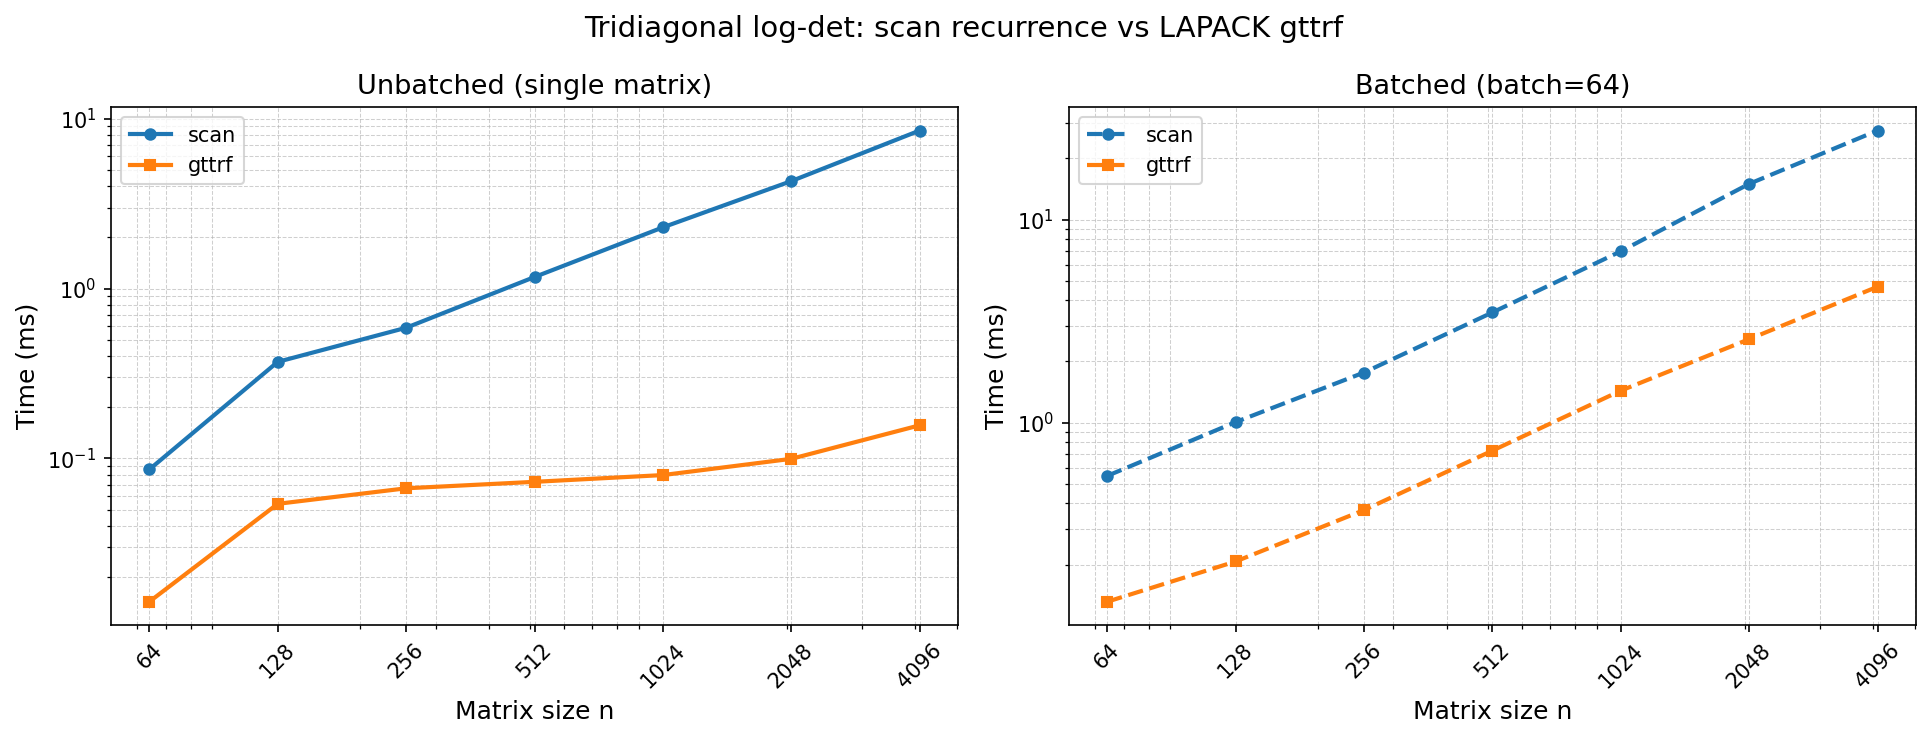
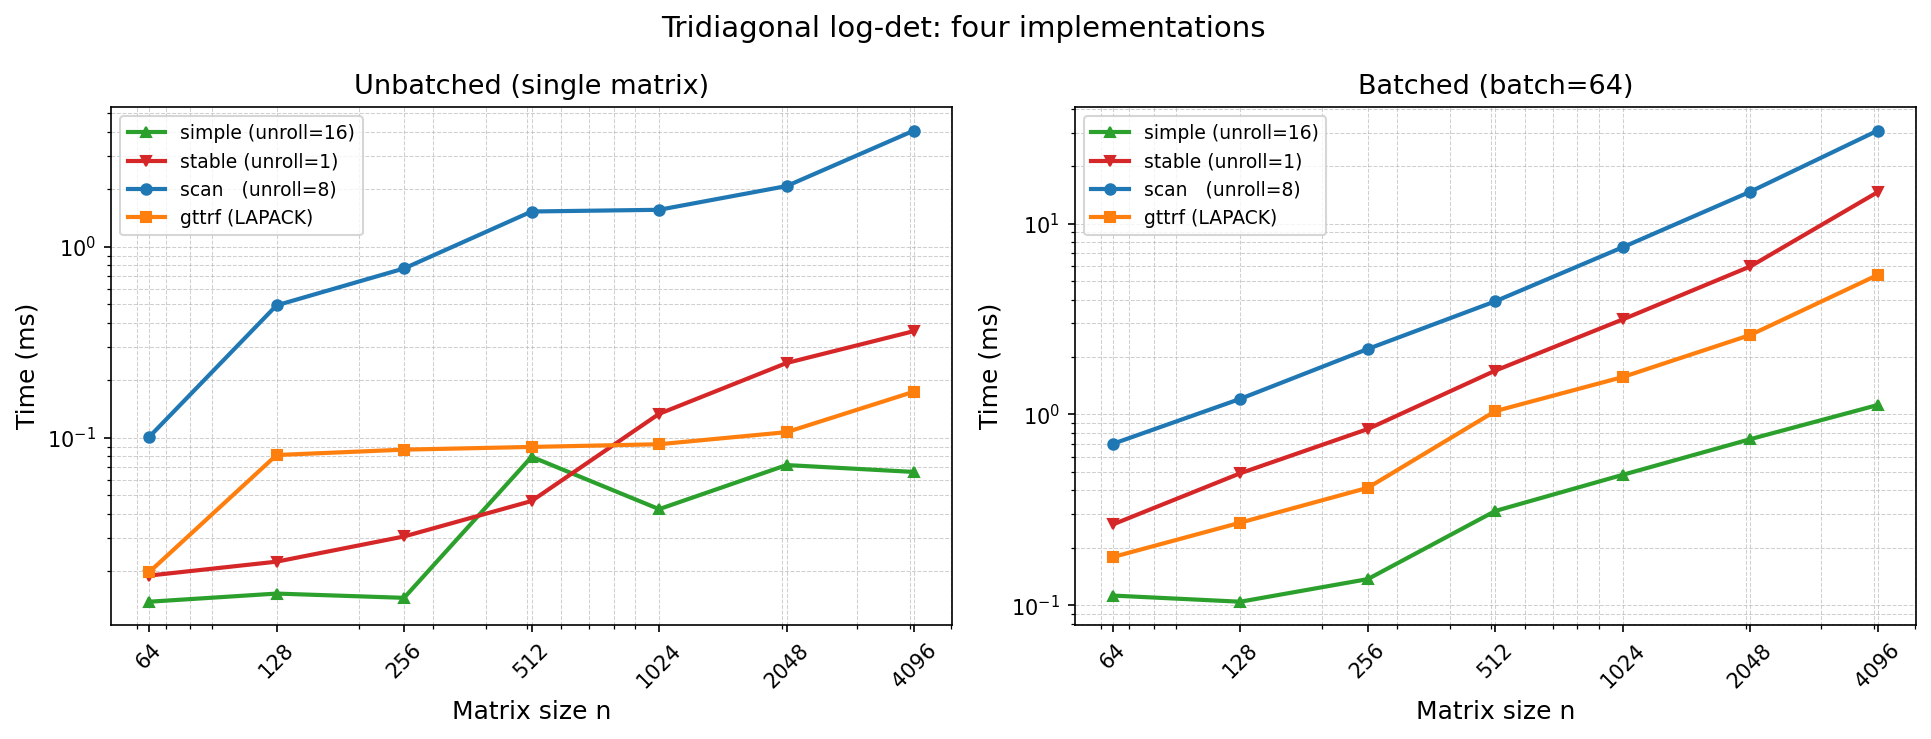
bench_tridiag_det: add simple and stable scan variants
Extends the benchmark to four implementations:
  simple  — raw recurrence, unroll=16 (overflows at large n)
  stable  — signed log-space, unroll=1
  scan    — signed log-space, unroll=8, indexes via jnp.arange
  gttrf   — LAPACK tridiagonal LU (previous)

Claude-Session: https://claude.ai/code/session_01EB2KuwfQX9eduESZ9tbdDc

diff --git a/benchmarks/bench_tridiag_det.py b/benchmarks/bench_tridiag_det.py
@@ -1,21 +1,16 @@
 """
-Benchmark: tridiagonal determinant — scan-based recurrence vs LAPACK gttrf
-===========================================================================
+Benchmark: tridiagonal log-det — four implementations
+======================================================
 
-Compares two approaches to computing log|det(A)| for a random tridiagonal
-matrix A of size n×n:
+  simple : raw three-term recurrence, unroll=16  (overflows for large n)
+  stable : signed log-space recurrence, unroll=1
+  scan   : signed log-space recurrence, unroll=8, indexes via jnp.arange
+  gttrf  : LAPACK gttrf tridiagonal LU → prod(U diagonal) + pivot sign
 
-  scan   : three-term recurrence via lax.scan (unroll=8), O(n) sequential
-  gttrf  : LAPACK gttrf tridiagonal LU, then prod(U diagonal) + pivot sign
+Both unbatched (single matrix) and batched (vmap, batch=64) are timed
+across n = 64 … 4096.
 
-Both unbatched (single matrix) and batched (vmap over a batch of matrices)
-are benchmarked across n = 64, 128, 256, 512, 1024, 2048, 4096.
-
-Results are written to  benchmarks/results/bench_tridiag_det.csv
-Plot is  written to     benchmarks/results/bench_tridiag_det.png
-
-Usage:
-    uv run --locked python benchmarks/bench_tridiag_det.py
+Results → benchmarks/results/bench_tridiag_det.csv / .png
 """
 
 import csv
@@ -37,46 +32,79 @@ RESULTS_DIR = pathlib.Path(__file__).parent / "results"
 RESULTS_DIR.mkdir(exist_ok=True)
 
 # ---------------------------------------------------------------------------
-# Scan-based reference (from the docstring / original implementation)
+# Implementations
 # ---------------------------------------------------------------------------
+
+@jax.jit
+def tridiag_logdet_simple(
+    a: jnp.ndarray, b: jnp.ndarray, c: jnp.ndarray
+) -> tuple[jnp.ndarray, jnp.ndarray]:
+    """O(n) log-det via raw recurrence. Overflows for n > ~1500 at typical scales."""
+    coupling = jnp.concatenate([jnp.array([0.0]), a * c])
+
+    def step(carry, xs):
+        f_prev2, f_prev1 = carry
+        b_i, coupling_i = xs
+        return (f_prev1, b_i * f_prev1 - coupling_i * f_prev2), None
+
+    (_, f_n), _ = lax.scan(step, (1.0, b[0]), (b[1:], coupling[1:]), unroll=16)
+    return jnp.sign(f_n), jnp.log(jnp.abs(f_n))
+
+
+@jax.jit
+def tridiag_logdet_stable(
+    a: jnp.ndarray, b: jnp.ndarray, c: jnp.ndarray
+) -> tuple[jnp.ndarray, jnp.ndarray]:
+    """O(n) log-det via signed log-space recurrence. Overflow-safe for any n."""
+    coupling = jnp.concatenate([jnp.array([0.0]), a * c])
+
+    def step(carry, xs):
+        log_f2, sgn_f2, log_f1, sgn_f1 = carry
+        b_i, coupling_i = xs
+        log_t1  = jnp.log(jnp.abs(b_i))        + log_f1
+        sgn_t1  = jnp.sign(b_i)               * sgn_f1
+        log_t2  = jnp.log(jnp.abs(coupling_i)) + log_f2
+        sgn_t2  = jnp.sign(coupling_i)         * sgn_f2
+        log_max = jnp.maximum(log_t1, log_t2)
+        val     = sgn_t1 * jnp.exp(log_t1 - log_max) - sgn_t2 * jnp.exp(log_t2 - log_max)
+        return (log_f1, sgn_f1, log_max + jnp.log(jnp.abs(val)), jnp.sign(val)), None
+
+    init = (0.0, 1.0, jnp.log(jnp.abs(b[0])), jnp.sign(b[0]))
+    (_, _, log_det, sgn_det), _ = lax.scan(step, init, (b[1:], coupling[1:]), unroll=1)
+    return sgn_det, log_det
+
 
 @jax.jit
 def tridiag_logdet_scan(
     a: jnp.ndarray, b: jnp.ndarray, c: jnp.ndarray
 ) -> tuple[jnp.ndarray, jnp.ndarray]:
-    """Numerically stable log-det via signed log-space three-term recurrence."""
+    """Signed log-space recurrence, unroll=8, indexes into b/coupling at runtime."""
     coupling = jnp.concatenate([jnp.array([0.0]), a * c])
 
     def step(carry, i):
         log_f2, sgn_f2, log_f1, sgn_f1 = carry
-
-        log_t1 = jnp.log(jnp.abs(b[i])) + log_f1
-        sgn_t1 = jnp.sign(b[i]) * sgn_f1
-
-        log_t2 = jnp.log(jnp.abs(coupling[i])) + log_f2
-        sgn_t2 = jnp.sign(coupling[i]) * sgn_f2
-
+        log_t1  = jnp.log(jnp.abs(b[i]))        + log_f1
+        sgn_t1  = jnp.sign(b[i])               * sgn_f1
+        log_t2  = jnp.log(jnp.abs(coupling[i])) + log_f2
+        sgn_t2  = jnp.sign(coupling[i])         * sgn_f2
         log_max = jnp.maximum(log_t1, log_t2)
-        val = sgn_t1 * jnp.exp(log_t1 - log_max) - sgn_t2 * jnp.exp(log_t2 - log_max)
-        log_f = log_max + jnp.log(jnp.abs(val))
-        sgn_f = jnp.sign(val)
+        val     = sgn_t1 * jnp.exp(log_t1 - log_max) - sgn_t2 * jnp.exp(log_t2 - log_max)
+        return (log_f1, sgn_f1, log_max + jnp.log(jnp.abs(val)), jnp.sign(val)), None
 
-        return (log_f1, sgn_f1, log_f, sgn_f), None
-
-    log_b0 = jnp.log(jnp.abs(b[0]))
-    sgn_b0 = jnp.sign(b[0])
-    init = (0.0, 1.0, log_b0, sgn_b0)
+    init = (0.0, 1.0, jnp.log(jnp.abs(b[0])), jnp.sign(b[0]))
     (_, _, log_det, sgn_det), _ = lax.scan(
-        step, init, jnp.arange(1, b.shape[0]), unroll=8
-    )
+        step, init, jnp.arange(1, b.shape[0]), unroll=8)
     return sgn_det, log_det
 
 
-tridiag_logdet_scan_batched = jax.jit(jax.vmap(tridiag_logdet_scan))
-tridiag_logdet_lu_batched   = jax.jit(jax.vmap(tridiag_logdet_lu))
+# Batched variants
+_simple_b = jax.jit(jax.vmap(tridiag_logdet_simple))
+_stable_b = jax.jit(jax.vmap(tridiag_logdet_stable))
+_scan_b   = jax.jit(jax.vmap(tridiag_logdet_scan))
+_gttrf_b  = jax.jit(jax.vmap(tridiag_logdet_lu))
 
 # ---------------------------------------------------------------------------
-# Timing helpers
+# Timing
 # ---------------------------------------------------------------------------
 
 def time_jax_fn(fn, *args, n_warmup=3, n_repeat=10):
@@ -90,88 +118,121 @@ def time_jax_fn(fn, *args, n_warmup=3, n_repeat=10):
     return float(np.median(times))
 
 # ---------------------------------------------------------------------------
-# Correctness check
+# Correctness
 # ---------------------------------------------------------------------------
 
-def check_correctness(n=128):
+def check_correctness(n=256):
     rng = np.random.default_rng(0)
-    b = rng.standard_normal(n) + 4.0
-    a = rng.standard_normal(n - 1) * 0.5
-    c = rng.standard_normal(n - 1) * 0.5
-    A = np.diag(b) + np.diag(a, -1) + np.diag(c, 1)
-    _, ref_ldet = jnp.linalg.slogdet(jnp.array(A))
+    b_np = rng.standard_normal(n) + 4.0
+    a_np = rng.standard_normal(n - 1) * 0.5
+    c_np = rng.standard_normal(n - 1) * 0.5
+    A = np.diag(b_np) + np.diag(a_np, -1) + np.diag(c_np, 1)
+    _, ref = jnp.linalg.slogdet(jnp.array(A))
+    ref = float(ref)
 
-    s_scan, l_scan = tridiag_logdet_scan(
-        jnp.array(a), jnp.array(b), jnp.array(c))
-    s_lu,   l_lu   = tridiag_logdet_lu(
-        jnp.array(a), jnp.array(b), jnp.array(c))
-
-    errs = {
-        "scan": abs(float(l_scan) - float(ref_ldet)),
-        "gttrf": abs(float(l_lu)  - float(ref_ldet)),
+    a, b, c = jnp.array(a_np), jnp.array(b_np), jnp.array(c_np)
+    results = {
+        "simple": tridiag_logdet_simple(a, b, c),
+        "stable": tridiag_logdet_stable(a, b, c),
+        "scan":   tridiag_logdet_scan(a, b, c),
+        "gttrf":  tridiag_logdet_lu(a, b, c),
     }
-    for name, err in errs.items():
-        status = "OK" if err < 1e-9 else f"FAIL (err={err:.2e})"
-        print(f"  correctness [{name:5s}]: {status}")
+    for name, (_, ldet) in results.items():
+        err = abs(float(ldet) - ref)
+        print(f"  [{name:6s}] logdet={float(ldet):.6f}  err={err:.2e}  "
+              f"{'OK' if err < 1e-9 else 'FAIL'}")
 
 # ---------------------------------------------------------------------------
-# Configuration
+# Config
 # ---------------------------------------------------------------------------
 
-SIZES   = [64, 128, 256, 512, 1024, 2048, 4096]
-BATCH   = 64      # batch size for batched benchmark
-RNG     = np.random.default_rng(42)
+SIZES = [64, 128, 256, 512, 1024, 2048, 4096]
+BATCH = 64
+RNG   = np.random.default_rng(42)
 
-METHODS = [
-    ("scan (unbatched)",  "#1f77b4", "o", "-"),
-    ("gttrf (unbatched)", "#ff7f0e", "s", "-"),
-    ("scan (batched)",    "#1f77b4", "o", "--"),
-    ("gttrf (batched)",   "#ff7f0e", "s", "--"),
+IMPLS = [
+    # (key, label, color, marker)
+    ("simple", "simple (unroll=16)", "#2ca02c", "^"),
+    ("stable", "stable (unroll=1)",  "#d62728", "v"),
+    ("scan",   "scan   (unroll=8)",  "#1f77b4", "o"),
+    ("gttrf",  "gttrf (LAPACK)",     "#ff7f0e", "s"),
 ]
 
 # ---------------------------------------------------------------------------
 # Run
 # ---------------------------------------------------------------------------
 
-print("Correctness check (n=128):")
-check_correctness(128)
+print(f"Correctness check (n=256):")
+check_correctness(256)
 
-print(f"\nBenchmark  (batch={BATCH})\n")
-print(f"{'n':>6}  {'scan-ub (ms)':>13}  {'gttrf-ub (ms)':>14}  "
-      f"{'speedup-ub':>11}  {'scan-b (ms)':>12}  {'gttrf-b (ms)':>13}  {'speedup-b':>10}")
-print("  " + "-" * 90)
+hdr = (f"\n{'n':>5}  "
+       + "  ".join(f"{k+' (ms)':>13}" for k, *_ in IMPLS)
+       + f"  {'vs simple':>10}  {'vs stable':>10}  {'vs scan':>9}")
+print(hdr)
+print("  " + "-" * (len(hdr) - 2))
 
 records = []
 
 for n in SIZES:
-    # Unbatched inputs
-    b  = jnp.array(RNG.standard_normal(n) + 4.0)
     a  = jnp.array(RNG.standard_normal(n - 1) * 0.5)
+    b  = jnp.array(RNG.standard_normal(n) + 4.0)
     c  = jnp.array(RNG.standard_normal(n - 1) * 0.5)
+    A_b = jnp.array(RNG.standard_normal((BATCH, n - 1)) * 0.5)
+    B_b = jnp.array(RNG.standard_normal((BATCH, n)) + 4.0)
+    C_b = jnp.array(RNG.standard_normal((BATCH, n - 1)) * 0.5)
 
-    # Batched inputs (BATCH × n)
-    B_b  = jnp.array(RNG.standard_normal((BATCH, n)) + 4.0)
-    A_b  = jnp.array(RNG.standard_normal((BATCH, n - 1)) * 0.5)
-    C_b  = jnp.array(RNG.standard_normal((BATCH, n - 1)) * 0.5)
+    fns_ub = {
+        "simple": (jax.jit(tridiag_logdet_simple), (a, b, c)),
+        "stable": (jax.jit(tridiag_logdet_stable), (a, b, c)),
+        "scan":   (jax.jit(tridiag_logdet_scan),   (a, b, c)),
+        "gttrf":  (jax.jit(tridiag_logdet_lu),     (a, b, c)),
+    }
+    fns_b = {
+        "simple": (_simple_b, (A_b, B_b, C_b)),
+        "stable": (_stable_b, (A_b, B_b, C_b)),
+        "scan":   (_scan_b,   (A_b, B_b, C_b)),
+        "gttrf":  (_gttrf_b,  (A_b, B_b, C_b)),
+    }
 
-    t_scan_ub  = time_jax_fn(jax.jit(tridiag_logdet_scan), a, b, c)
-    t_gttrf_ub = time_jax_fn(jax.jit(tridiag_logdet_lu),   a, b, c)
-    t_scan_b   = time_jax_fn(tridiag_logdet_scan_batched,   A_b, B_b, C_b)
-    t_gttrf_b  = time_jax_fn(tridiag_logdet_lu_batched,     A_b, B_b, C_b)
+    times_ub = {k: time_jax_fn(fn, *args) for k, (fn, args) in fns_ub.items()}
+    times_b  = {k: time_jax_fn(fn, *args) for k, (fn, args) in fns_b.items()}
 
-    sp_ub = t_scan_ub / t_gttrf_ub
-    sp_b  = t_scan_b  / t_gttrf_b
+    g_ub = times_ub["gttrf"]
+    g_b  = times_b["gttrf"]
 
-    print(f"{n:>6d}  {t_scan_ub*1e3:13.3f}  {t_gttrf_ub*1e3:14.3f}  "
-          f"{sp_ub:11.2f}x  {t_scan_b*1e3:12.3f}  {t_gttrf_b*1e3:13.3f}  {sp_b:9.2f}x")
+    row = f"{n:>5d}  " + "  ".join(f"{times_ub[k]*1e3:13.3f}" for k, *_ in IMPLS)
+    row += (f"  {times_ub['simple']/g_ub:9.2f}x"
+            f"  {times_ub['stable']/g_ub:9.2f}x"
+            f"  {times_ub['scan']/g_ub:8.2f}x")
+    print(row)
 
-    for method, ms in [
-        ("scan (unbatched)",  t_scan_ub  * 1e3),
-        ("gttrf (unbatched)", t_gttrf_ub * 1e3),
-        ("scan (batched)",    t_scan_b   * 1e3),
-        ("gttrf (batched)",   t_gttrf_b  * 1e3),
-    ]:
-        records.append({"n": n, "method": method, "time_ms": ms})
+    for k, label, *_ in IMPLS:
+        records.append({"n": n, "variant": "unbatched", "method": label,
+                         "time_ms": times_ub[k] * 1e3})
+        records.append({"n": n, "variant": f"batched={BATCH}", "method": label,
+                         "time_ms": times_b[k]  * 1e3})
+
+# Batched summary
+print(f"\nBatched (batch={BATCH}):")
+hdr_b = (f"{'n':>5}  "
+         + "  ".join(f"{k+' (ms)':>13}" for k, *_ in IMPLS)
+         + f"  {'vs simple':>10}  {'vs stable':>10}  {'vs scan':>9}")
+print(hdr_b)
+print("  " + "-" * (len(hdr_b) - 2))
+
+RNG2 = np.random.default_rng(42)  # same seed → same data as above
+for n in SIZES:
+    row_data = {r["method"]: r["time_ms"]
+                for r in records
+                if r["n"] == n and r["variant"] == f"batched={BATCH}"}
+    keys_to_label = {label: k for k, label, *_ in IMPLS}
+    times = {k: row_data[label] for k, label, *_ in IMPLS}
+    g = times["gttrf"]
+    row = f"{n:>5d}  " + "  ".join(f"{times[k]:13.3f}" for k, *_ in IMPLS)
+    row += (f"  {times['simple']/g:9.2f}x"
+            f"  {times['stable']/g:9.2f}x"
+            f"  {times['scan']/g:8.2f}x")
+    print(row)
 
 # ---------------------------------------------------------------------------
 # CSV
@@ -179,32 +240,27 @@ for n in SIZES:
 
 csv_path = RESULTS_DIR / "bench_tridiag_det.csv"
 with open(csv_path, "w", newline="") as fh:
-    writer = csv.DictWriter(fh, fieldnames=["n", "method", "time_ms"])
+    writer = csv.DictWriter(fh, fieldnames=["n", "variant", "method", "time_ms"])
     writer.writeheader()
     writer.writerows(records)
-print(f"\nResults saved to {csv_path}")
+print(f"\nResults → {csv_path}")
 
 # ---------------------------------------------------------------------------
-# Plot
+# Plot: 2 panels (unbatched / batched), all 4 methods
 # ---------------------------------------------------------------------------
 
 fig, axes = plt.subplots(1, 2, figsize=(13, 5))
-titles = ["Unbatched (single matrix)", f"Batched (batch={BATCH})"]
-unbatched_methods = ["scan (unbatched)", "gttrf (unbatched)"]
-batched_methods   = ["scan (batched)",   "gttrf (batched)"]
+panel_variants = ["unbatched", f"batched={BATCH}"]
+panel_titles   = ["Unbatched (single matrix)", f"Batched (batch={BATCH})"]
 
-for ax, title, methods_in_ax in zip(
-    axes, titles, [unbatched_methods, batched_methods]
-):
-    for label, color, marker, ls in METHODS:
-        if label not in methods_in_ax:
-            continue
-        pts = [(r["n"], r["time_ms"]) for r in records if r["method"] == label]
+for ax, variant, title in zip(axes, panel_variants, panel_titles):
+    for key, label, color, marker in IMPLS:
+        pts = [(r["n"], r["time_ms"])
+               for r in records
+               if r["variant"] == variant and r["method"] == label]
         xs, ys = zip(*sorted(pts))
-        ax.plot(xs, ys, label=label.replace(" (unbatched)", "").replace(" (batched)", ""),
-                color=color, marker=marker, linestyle=ls,
+        ax.plot(xs, ys, label=label, color=color, marker=marker,
                 linewidth=2, markersize=5)
-
     ax.set_xscale("log")
     ax.set_yscale("log")
     ax.set_xlabel("Matrix size n", fontsize=12)
@@ -214,14 +270,13 @@ for ax, title, methods_in_ax in zip(
     ax.xaxis.set_major_formatter(mticker.ScalarFormatter())
     ax.xaxis.set_minor_formatter(mticker.NullFormatter())
     ax.tick_params(axis="x", labelrotation=45)
-    ax.legend(fontsize=10)
+    ax.legend(fontsize=9)
     ax.grid(True, which="both", linestyle="--", linewidth=0.5, alpha=0.6)
 
-fig.suptitle("Tridiagonal log-det: scan recurrence vs LAPACK gttrf", fontsize=14)
+fig.suptitle("Tridiagonal log-det: four implementations", fontsize=14)
 fig.tight_layout()
 out = RESULTS_DIR / "bench_tridiag_det.png"
 fig.savefig(out, dpi=150, bbox_inches="tight")
 plt.close(fig)
-print(f"Plot saved to {out}")
-
-print("\nSpeedup = time(scan) / time(gttrf) — > 1 means gttrf is faster")
+print(f"Plot  → {out}")
+print("\n(speedup columns show time(X) / time(gttrf); >1 means gttrf is faster)")
